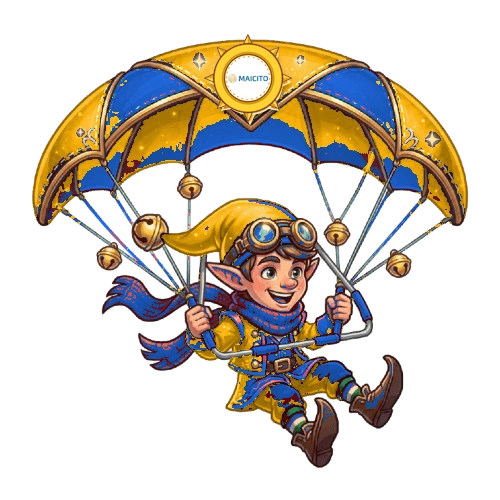
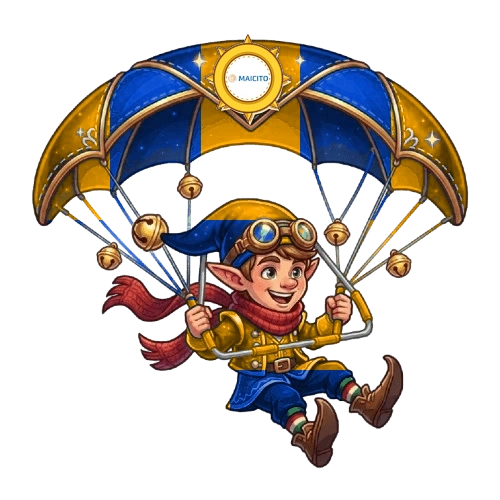
feat(art): enhance background with deep celestial parallax & fix character coloring and framing

diff --git a/minijuegos/src/games/FlyingElfGame.ts b/minijuegos/src/games/FlyingElfGame.ts
@@ -406,8 +406,8 @@ export class FlyingElfGame extends BaseGame {
     this.totalPlayTime = 0;
     this.initialGameDuration = this.timeRemaining > 5 ? this.timeRemaining : 45;
 
-    this.elfX = Math.max(120, this.width * 0.18);
-    this.elfHeight = Math.max(75, Math.min(135, this.height * 0.22));
+    this.elfX = Math.max(140, this.width * 0.22);
+    this.elfHeight = Math.max(85, Math.min(145, this.height * 0.24));
     this.elfWidth = this.elfHeight;
     this.elfY = this.height * 0.45;
     this.elfVy = 0;
@@ -480,8 +480,8 @@ export class FlyingElfGame extends BaseGame {
 
   public override resize(width: number, height: number): void {
     super.resize(width, height);
-    this.elfX = Math.max(120, this.width * 0.18);
-    this.elfHeight = Math.max(75, Math.min(135, this.height * 0.22));
+    this.elfX = Math.max(140, this.width * 0.22);
+    this.elfHeight = Math.max(85, Math.min(145, this.height * 0.24));
     this.elfWidth = this.elfHeight;
   }
 
@@ -1262,8 +1262,8 @@ export class FlyingElfGame extends BaseGame {
     this.isWindActive = false;
     this.wasThrusting = false;
     this.flyAudioCooldown = 0;
-    this.elfX = Math.max(120, this.width * 0.18);
-    this.elfHeight = Math.max(75, Math.min(135, this.height * 0.22));
+    this.elfX = Math.max(140, this.width * 0.22);
+    this.elfHeight = Math.max(85, Math.min(145, this.height * 0.24));
     this.elfWidth = this.elfHeight;
     this.elfY = this.height * 0.45;
     this.elfVy = 0;
@@ -1695,26 +1695,38 @@ export class FlyingElfGame extends BaseGame {
 
     if (!isLandscape) {
       // Disposición vertical (Portrait)
-      previewSize = Math.min(box.w * 0.62, box.h * 0.46);
+      previewSize = Math.min(box.w * 0.68, box.h * 0.48);
       previewX = box.x + box.w / 2;
-      previewY = box.y + box.h * 0.32 + sway;
+      previewY = box.y + box.h * 0.30 + sway;
     } else {
       // Disposición horizontal (Landscape)
-      previewSize = Math.min(box.h * 0.78, box.w * 0.38);
-      previewX = box.x + previewSize / 2 + 20;
+      previewSize = Math.min(box.h * 0.82, box.w * 0.42);
+      previewX = box.x + previewSize / 2 + 25;
       previewY = box.y + box.h / 2 + sway;
     }
 
-    // Pedestal de energía / nieve
+    // Pedestal de energía mágica y nieve flotante alineado exactamente bajo los pies del elfo
     ctx.save();
-    ctx.translate(previewX, previewY + previewSize * 0.42);
-    const pedGrad = ctx.createRadialGradient(0, 0, 4, 0, 0, previewSize * 0.42);
+    ctx.translate(previewX, previewY + previewSize * 0.38);
+    const pedGrad = ctx.createRadialGradient(0, 0, 4, 0, 0, previewSize * 0.38);
     pedGrad.addColorStop(0, def.themeColor);
+    pedGrad.addColorStop(0.65, `${def.themeColor}55`);
     pedGrad.addColorStop(1, "rgba(0, 0, 0, 0)");
     ctx.fillStyle = pedGrad;
     ctx.beginPath();
-    ctx.ellipse(0, 0, previewSize * 0.44, previewSize * 0.14, 0, 0, Math.PI * 2);
+    ctx.ellipse(0, 0, previewSize * 0.42, previewSize * 0.12, 0, 0, Math.PI * 2);
     ctx.fill();
+
+    // Chispas de nieve mágica flotando en el pedestal
+    for (let sp = 0; sp < 6; sp++) {
+      const spPhase = (this.charSelectAnimTime * 2.5 + sp * 1.1) % (Math.PI * 2);
+      const spX = Math.cos(spPhase) * (previewSize * 0.35);
+      const spY = Math.sin(spPhase) * (previewSize * 0.10) - (Math.sin(spPhase) + 1) * 6;
+      ctx.fillStyle = "rgba(255, 255, 255, 0.85)";
+      ctx.beginPath();
+      ctx.arc(spX, spY, 1.6, 0, Math.PI * 2);
+      ctx.fill();
+    }
     ctx.restore();
 
     // Aura mágica del personaje
@@ -1960,7 +1972,8 @@ export class FlyingElfGame extends BaseGame {
    */
   private renderBackgroundSigns(ctx: CanvasRenderingContext2D): void {
     ctx.save();
-    const signBaseY = this.height - 195;
+    // Alinear carteles de patrocinadores naturalmente en la orilla del camino nevado
+    const signBaseY = this.height - Math.min(130, Math.max(85, this.height * 0.28));
 
     for (const sign of this.backgroundSigns) {
       if (sign.x < -200 || sign.x > this.width + 200) continue;
@@ -1990,13 +2003,168 @@ export class FlyingElfGame extends BaseGame {
   }
 
   /**
-   * Dibuja un único mundo panorámico continuo de Villa Navideña sin solapamientos
+   * Dibuja un mundo panorámico continuo y vivo con capas profundas de fantasía:
+   * - Cielo cósmico con estrellas titilantes y estrellas fugaces
+   * - Aurora boreal mágica con cortinas ondulantes de luz
+   * - Silueta de Santa Claus y sus renos surcando la lejanía
+   * - Cordillera de montañas nevadas en parallax profundo
+   * - Panorama de la Villa Navideña iluminada con integración continua
    */
   private renderSingleUnifiedWorld(ctx: CanvasRenderingContext2D): void {
-    // Relleno base nocturno para asegurar opacidad al 100%
-    ctx.fillStyle = "#061226";
+    // 1. Cielo Nocturno Profundo Cósmico
+    const skyGrad = ctx.createLinearGradient(0, 0, 0, this.height);
+    skyGrad.addColorStop(0, "#010714");
+    skyGrad.addColorStop(0.35, "#061329");
+    skyGrad.addColorStop(0.7, "#0C2344");
+    skyGrad.addColorStop(1, "#16345C");
+    ctx.fillStyle = skyGrad;
     ctx.fillRect(0, 0, this.width, this.height);
 
+    // 2. Campo Estelar Centelleante (36 estrellas con brillo oscilante)
+    ctx.save();
+    const starTime = this.totalPlayTime * 1.5;
+    for (let i = 0; i < 36; i++) {
+      const sx = ((i * 73 - this.bgScrollX * 0.08) % (this.width + 100) + (this.width + 100)) % (this.width + 100) - 50;
+      const sy = (i * 31 + Math.sin(i * 1.7) * 20) % (this.height * 0.48);
+      const twinkle = 0.4 + Math.sin(starTime + i * 1.3) * 0.45;
+      const starR = (i % 3 === 0 ? 2.0 : 1.2) * twinkle;
+      ctx.fillStyle = i % 4 === 0 ? `rgba(255, 230, 160, ${twinkle})` : `rgba(200, 240, 255, ${twinkle})`;
+      ctx.beginPath();
+      ctx.arc(sx, sy, Math.max(0.6, starR), 0, Math.PI * 2);
+      ctx.fill();
+
+      // Cruz de destello en estrellas más brillantes
+      if (i % 5 === 0 && twinkle > 0.6) {
+        ctx.strokeStyle = `rgba(255, 255, 255, ${twinkle * 0.7})`;
+        ctx.lineWidth = 0.8;
+        ctx.beginPath();
+        ctx.moveTo(sx - 4, sy);
+        ctx.lineTo(sx + 4, sy);
+        ctx.moveTo(sx, sy - 4);
+        ctx.lineTo(sx, sy + 4);
+        ctx.stroke();
+      }
+    }
+
+    // Estrella fugaz ocasional en la lejanía
+    const meteorCycle = (this.totalPlayTime * 0.35) % 12;
+    if (meteorCycle < 1.4) {
+      const mProgress = meteorCycle / 1.4;
+      const mx = (this.width * 0.85) - mProgress * (this.width * 0.45);
+      const my = (this.height * 0.06) + mProgress * (this.height * 0.22);
+      const mLen = 50 * (1 - mProgress);
+      const mAlpha = Math.sin(mProgress * Math.PI) * 0.85;
+      const mGrad = ctx.createLinearGradient(mx, my, mx + mLen, my - mLen * 0.4);
+      mGrad.addColorStop(0, `rgba(255, 255, 255, ${mAlpha})`);
+      mGrad.addColorStop(0.4, `rgba(180, 230, 255, ${mAlpha * 0.7})`);
+      mGrad.addColorStop(1, "rgba(0, 229, 255, 0)");
+      ctx.strokeStyle = mGrad;
+      ctx.lineWidth = 2.0;
+      ctx.beginPath();
+      ctx.moveTo(mx, my);
+      ctx.lineTo(mx + mLen, my - mLen * 0.4);
+      ctx.stroke();
+    }
+    ctx.restore();
+
+    // 3. Aurora Boreal Mágica (Cortinas ondulantes de luz esmeralda, cian y violeta)
+    ctx.save();
+    ctx.globalCompositeOperation = "screen";
+    const auroraTime = this.totalPlayTime * 0.8;
+    const auroraBands = [
+      { color1: "rgba(16, 185, 129, 0.32)", color2: "rgba(5, 150, 105, 0)", yBase: this.height * 0.16, freq: 0.006, amp: 28, speed: 0.7 },
+      { color1: "rgba(6, 182, 212, 0.28)", color2: "rgba(2, 132, 199, 0)", yBase: this.height * 0.12, freq: 0.009, amp: 22, speed: 1.1 },
+      { color1: "rgba(168, 85, 247, 0.22)", color2: "rgba(126, 34, 206, 0)", yBase: this.height * 0.22, freq: 0.005, amp: 34, speed: 0.5 }
+    ];
+
+    for (const b of auroraBands) {
+      ctx.beginPath();
+      ctx.moveTo(0, 0);
+      for (let x = 0; x <= this.width + 40; x += 30) {
+        const wave = Math.sin(x * b.freq + auroraTime * b.speed) * b.amp + Math.cos(x * b.freq * 0.5 - auroraTime * 0.4) * (b.amp * 0.5);
+        ctx.lineTo(x, b.yBase + wave);
+      }
+      ctx.lineTo(this.width + 40, 0);
+      ctx.closePath();
+      const aGrad = ctx.createLinearGradient(0, 0, 0, this.height * 0.35);
+      aGrad.addColorStop(0, b.color1);
+      aGrad.addColorStop(1, b.color2);
+      ctx.fillStyle = aGrad;
+      ctx.fill();
+    }
+    ctx.restore();
+
+    // 4. Trineo de Santa Claus Volando en la Lejanía con estela de oro
+    ctx.save();
+    const sleighCycle = (this.totalPlayTime * 0.08) % 1.0;
+    const sleighX = (this.width + 300) - sleighCycle * (this.width + 600);
+    const sleighY = this.height * 0.14 + Math.sin(this.totalPlayTime * 1.8) * 12;
+    if (sleighX > -150 && sleighX < this.width + 150) {
+      for (let s = 1; s <= 6; s++) {
+        const trailX = sleighX + s * 14;
+        const trailY = sleighY + Math.sin(this.totalPlayTime * 3 + s) * 5;
+        const sAlpha = Math.max(0, 0.7 - s * 0.1);
+        ctx.fillStyle = `rgba(255, 215, 0, ${sAlpha})`;
+        ctx.beginPath();
+        ctx.arc(trailX, trailY, Math.max(0.5, 3.0 - s * 0.4), 0, Math.PI * 2);
+        ctx.fill();
+      }
+
+      ctx.fillStyle = "rgba(10, 25, 48, 0.75)";
+      ctx.strokeStyle = "rgba(255, 215, 0, 0.65)";
+      ctx.lineWidth = 1.2;
+      ctx.beginPath();
+      ctx.ellipse(sleighX + 45, sleighY, 14, 7, -0.15, 0, Math.PI * 2);
+      ctx.fill();
+      ctx.stroke();
+
+      for (let r = 0; r < 2; r++) {
+        const rx = sleighX + 18 - r * 16;
+        const ry = sleighY + Math.sin(this.totalPlayTime * 4 + r) * 3;
+        ctx.beginPath();
+        ctx.ellipse(rx, ry, 7, 4, -0.2, 0, Math.PI * 2);
+        ctx.fill();
+      }
+    }
+    ctx.restore();
+
+    // 5. Cadena Montañosa Lejana con Nieve (Parallax Lento 0.12x)
+    ctx.save();
+    ctx.fillStyle = "#091D38";
+    ctx.beginPath();
+    ctx.moveTo(0, this.height);
+    const mountainScroll = this.bgScrollX * 0.12;
+    for (let mx = 0; mx <= this.width + 60; mx += 50) {
+      const worldMx = mx + mountainScroll;
+      const mPeak = Math.sin(worldMx * 0.0035) * (this.height * 0.16) + Math.cos(worldMx * 0.008) * (this.height * 0.08);
+      ctx.lineTo(mx, this.height * 0.58 - mPeak);
+    }
+    ctx.lineTo(this.width, this.height);
+    ctx.closePath();
+    ctx.fill();
+
+    ctx.strokeStyle = "rgba(186, 230, 253, 0.35)";
+    ctx.lineWidth = 2.0;
+    ctx.stroke();
+    ctx.restore();
+
+    // 6. Cadena Montañosa Media y Bosque de Pinos (Parallax 0.28x)
+    ctx.save();
+    ctx.fillStyle = "#0C274A";
+    ctx.beginPath();
+    ctx.moveTo(0, this.height);
+    const midMountainScroll = this.bgScrollX * 0.28;
+    for (let mmx = 0; mmx <= this.width + 40; mmx += 35) {
+      const worldMmx = mmx + midMountainScroll;
+      const mmPeak = Math.sin(worldMmx * 0.007) * (this.height * 0.12) + Math.cos(worldMmx * 0.015) * (this.height * 0.05);
+      ctx.lineTo(mmx, this.height * 0.68 - mmPeak);
+    }
+    ctx.lineTo(this.width, this.height);
+    ctx.closePath();
+    ctx.fill();
+    ctx.restore();
+
+    // 7. Panorama Seamless de la Villa Navideña Iluminada
     if (this.imgBgPanorama.complete && this.imgBgPanorama.naturalWidth > 0) {
       const imgW = this.imgBgPanorama.naturalWidth;
       const imgH = this.imgBgPanorama.naturalHeight;
@@ -2012,13 +2180,6 @@ export class FlyingElfGame extends BaseGame {
         ctx.drawImage(this.imgBgPanorama, offsetX, drawY, drawW, drawH);
         offsetX += drawW - 1;
       }
-    } else {
-      const skyGrad = ctx.createLinearGradient(0, 0, 0, this.height);
-      skyGrad.addColorStop(0, "#030A16");
-      skyGrad.addColorStop(0.5, "#091B33");
-      skyGrad.addColorStop(1, "#122E54");
-      ctx.fillStyle = skyGrad;
-      ctx.fillRect(0, 0, this.width, this.height);
     }
   }
 
@@ -2068,24 +2229,24 @@ export class FlyingElfGame extends BaseGame {
    * - Cajas de regalos
    */
   private renderGroundDecorations(ctx: CanvasRenderingContext2D): void {
-    const floorBaseY = this.height - 55;
+    const floorBaseY = this.height - Math.min(36, Math.max(22, this.height * 0.10));
 
-    // 1. Capa base de montículos de nieve con degradado invernal
+    // 1. Capa base de nieve suave y estilizada que enmarca el suelo sin tapar el camino
     ctx.save();
-    const snowGrad = ctx.createLinearGradient(0, floorBaseY - 35, 0, this.height);
-    snowGrad.addColorStop(0, "rgba(225, 245, 254, 0.95)");
-    snowGrad.addColorStop(0.3, "rgba(179, 229, 252, 0.95)");
-    snowGrad.addColorStop(1, "rgba(79, 134, 198, 0.98)");
+    const snowGrad = ctx.createLinearGradient(0, floorBaseY - 18, 0, this.height);
+    snowGrad.addColorStop(0, "rgba(225, 245, 254, 0.70)");
+    snowGrad.addColorStop(0.3, "rgba(179, 229, 252, 0.85)");
+    snowGrad.addColorStop(1, "rgba(28, 54, 94, 0.95)");
 
     ctx.fillStyle = snowGrad;
     ctx.beginPath();
     ctx.moveTo(0, this.height);
 
-    // Ondulación suave de la nieve
+    // Ondulación sutil y elegante de la nieve
     const step = 45;
     for (let x = 0; x <= this.width + step; x += step) {
       const worldX = x + this.groundScrollX;
-      const wave = Math.sin(worldX * 0.012) * 14 + Math.cos(worldX * 0.024) * 8;
+      const wave = Math.sin(worldX * 0.012) * 6 + Math.cos(worldX * 0.024) * 3;
       const y = floorBaseY + wave;
       ctx.lineTo(x, y);
     }
@@ -2095,7 +2256,7 @@ export class FlyingElfGame extends BaseGame {
 
     // Borde brillante de escarcha/hielo sobre la cresta de nieve
     ctx.strokeStyle = "rgba(255, 255, 255, 0.85)";
-    ctx.lineWidth = 3;
+    ctx.lineWidth = 1.8;
     ctx.stroke();
     ctx.restore();
 
